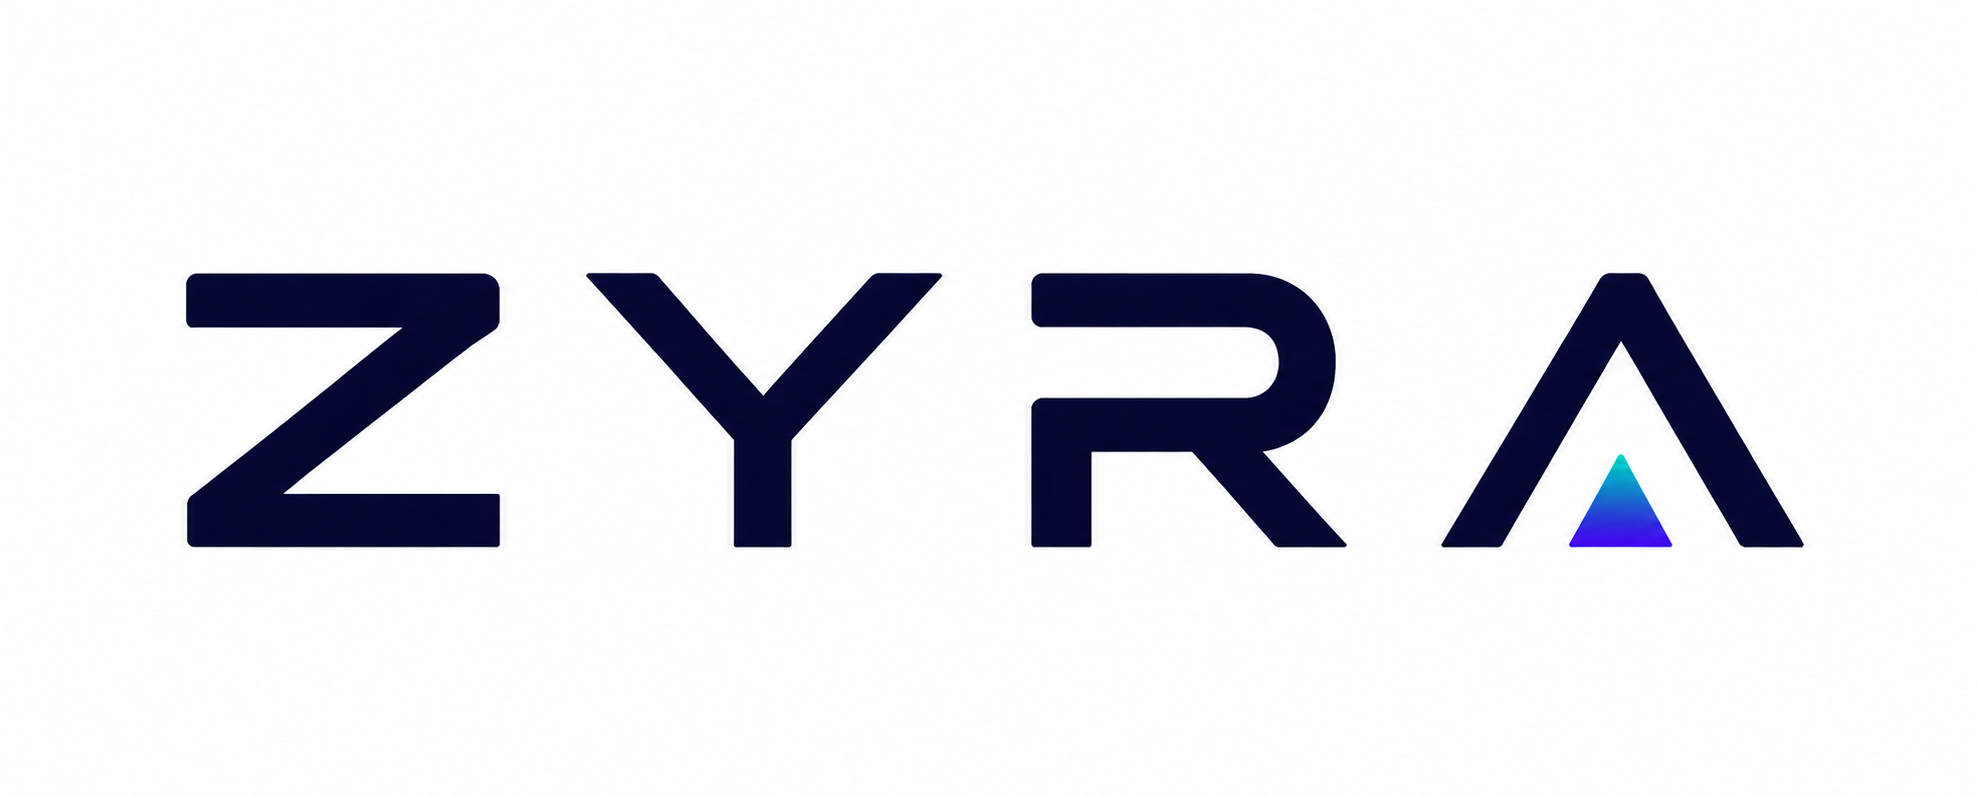
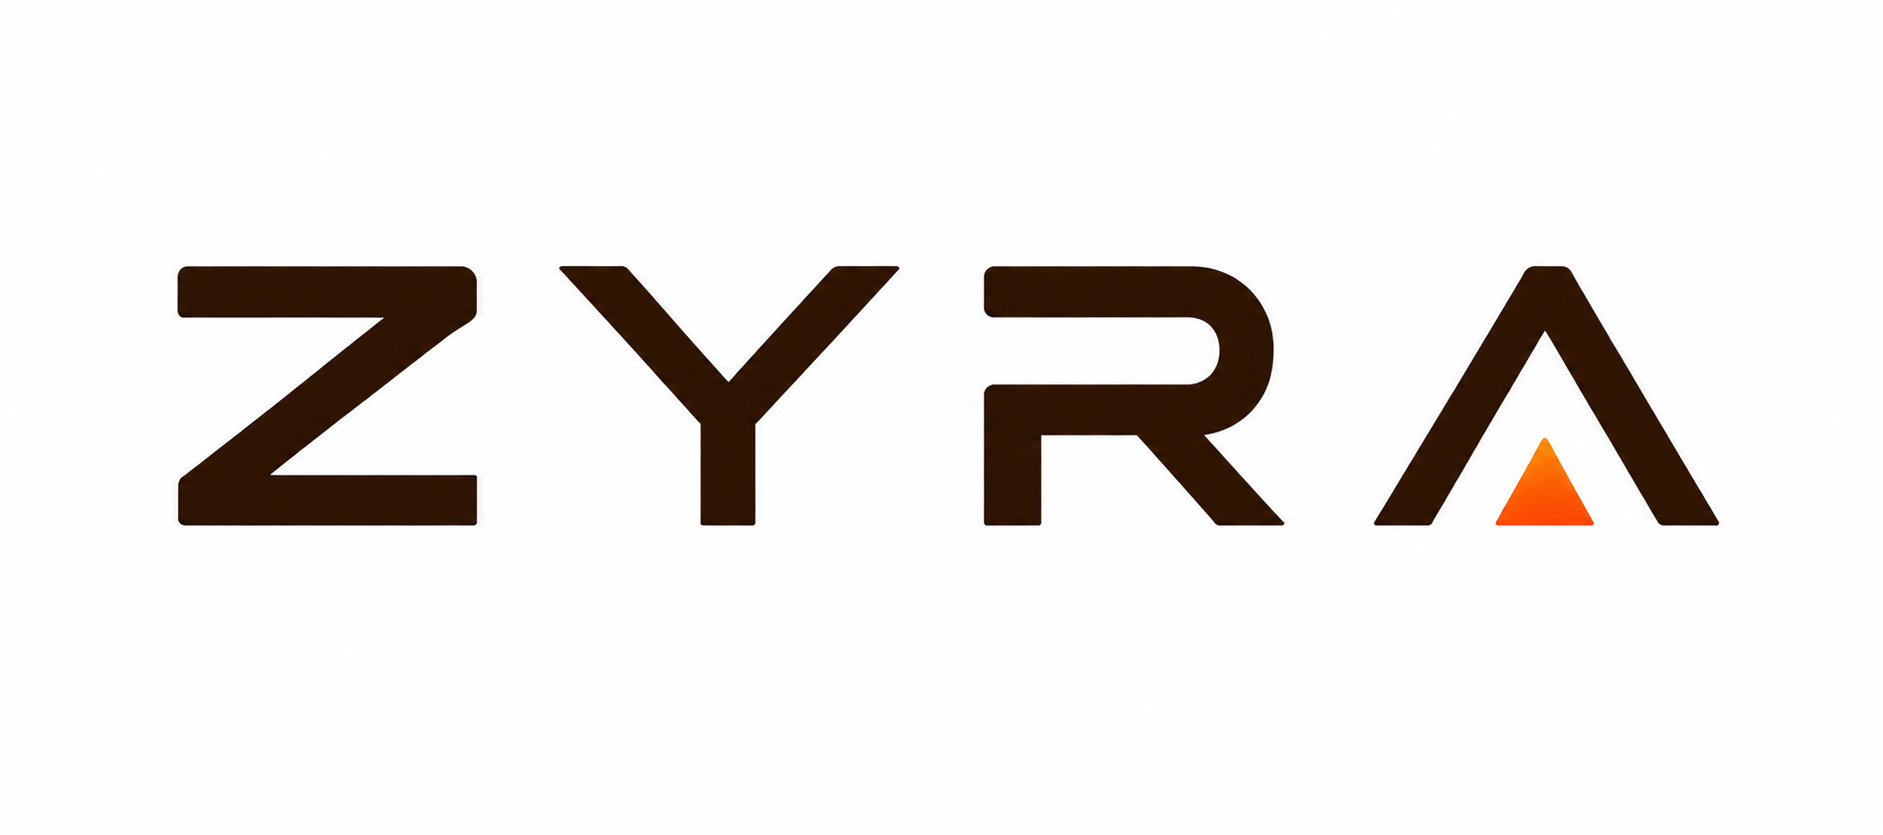
updates

Changed region(s): [[0.0924, 0.3019, 0.4928, 0.6943], [0.7084, 0.3019, 0.9241, 0.6943], [0.5236, 0.3019, 0.6776, 0.6943]]

diff --git a/src/components/Home/ServicesSection.tsx b/src/components/Home/ServicesSection.tsx
@@ -1,12 +1,49 @@
 import { motion, useReducedMotion } from 'framer-motion'
+import gearIcon from '../../assets/png/gear.png'
 
 const services = [
-  ['Product Strategy', 'Roadmaps, positioning, and launch plans shaped around the market.'],
-  ['UI/UX Design', 'Interfaces that are clean, accessible, and tuned for real workflows.'],
-  ['Web Development', 'Fast, modern web experiences built with the right stack for your goals.'],
-  ['Mobile Development', 'Native-feeling products designed for everyday use.'],
-  ['Branding & Identity', 'Visual systems that make your product easier to remember.'],
-  ['Deployment & DevOps', 'Release pipelines, analytics, and hosting foundations.'],
+  {
+    title: 'Product Strategy',
+    body: 'Roadmaps, prioritization, and go-to-market planning grounded in real user research.',
+    mark: 'St',
+    color: '#2563eb',
+    bg: '#e9efff',
+  },
+  {
+    title: 'UI/UX Design',
+    body: 'Interfaces that are beautiful, accessible, and built around real user journeys.',
+    mark: 'Ux',
+    color: '#e83e86',
+    bg: '#ffe8f2',
+  },
+  {
+    title: 'Web Development',
+    body: "Fast, modern web applications built with the right stack for your product's scale.",
+    mark: '</>',
+    color: '#16a866',
+    bg: '#e5faee',
+  },
+  {
+    title: 'Mobile Development',
+    body: 'Native and cross-platform mobile apps designed for real-world performance.',
+    mark: '◇',
+    color: '#8b5cf6',
+    bg: '#f0e7ff',
+  },
+  {
+    title: 'Branding & Identity',
+    body: 'Visual systems that express your values and make your product instantly recognizable.',
+    mark: 'Br',
+    color: '#ff7b00',
+    bg: '#fff0e5',
+  },
+  {
+    title: 'Deployment & DevOps',
+    body: 'Reliable infrastructure, CI/CD pipelines, and monitoring so your product stays live.',
+    icon: gearIcon,
+    color: '#ffffff',
+    bg: '#11110f',
+  },
 ]
 
 export function ServicesSection() {
@@ -31,11 +68,11 @@ export function ServicesSection() {
         </p>
       </div>
 
-      <div className="grid gap-4 sm:grid-cols-2 lg:grid-cols-3">
-        {services.map(([title, body], index) => (
+      <div className="grid gap-3 sm:grid-cols-2 lg:grid-cols-3">
+        {services.map((service, index) => (
           <motion.article
-            key={title}
-            className="group rounded-[8px] bg-white p-6 shadow-[0_18px_45px_rgba(17,17,15,0.04)]"
+            key={service.title}
+            className="group min-h-[216px] rounded-[22px] bg-white p-8 shadow-[0_18px_45px_rgba(17,17,15,0.04)]"
             initial={shouldReduceMotion ? false : { opacity: 0, y: 52, scale: 0.96 }}
             whileInView={{ opacity: 1, y: 0, scale: 1 }}
             whileHover={
@@ -50,22 +87,28 @@ export function ServicesSection() {
             }
             viewport={{ once: true, amount: 0.25, margin: '0px 0px -8% 0px' }}
             transition={{
-              duration: shouldReduceMotion ? 0 : 1,
-              delay: shouldReduceMotion ? 0 : index * 0.15,
+              duration: shouldReduceMotion ? 0 : 0.7,
+              delay: shouldReduceMotion ? 0 : index * 0.08,
               ease: [0.16, 1, 0.3, 1],
             }}
           >
-            <span
-              className={`mb-8 grid h-8 w-8 place-items-center rounded-[7px] bg-cream text-xs font-semibold text-orange ${
-                shouldReduceMotion
-                  ? ''
-                  : 'transition-[transform,background-color,color] duration-300 ease-out group-hover:scale-110 group-hover:bg-orange group-hover:text-white'
-              }`}
-            >
-              {String(index + 1).padStart(2, '0')}
-            </span>
-            <h3 className="text-base font-semibold">{title}</h3>
-            <p className="mt-3 text-xs leading-6 text-muted">{body}</p>
+            <div className="mb-5 flex items-start justify-between">
+              <span
+                className={`grid size-11 place-items-center rounded-[12px] text-[16px] font-semibold ${
+                  shouldReduceMotion ? '' : 'transition-transform duration-300 ease-out group-hover:scale-110'
+                }`}
+                style={{ backgroundColor: service.bg, color: service.color }}
+              >
+                {'icon' in service ? (
+                  <img src={service.icon} alt="" className="size-5 brightness-0 invert" aria-hidden="true" />
+                ) : (
+                  service.mark
+                )}
+              </span>
+              <span className="font-geist-mono text-[11px] text-[#aaa59e]">{String(index + 1).padStart(2, '0')}</span>
+            </div>
+            <h3 className="text-[22px] font-semibold leading-tight tracking-[-0.03em] text-black">{service.title}</h3>
+            <p className="mt-5 text-[15px] leading-[1.6] text-[#77736e]">{service.body}</p>
           </motion.article>
         ))}
       </div>

diff --git a/src/assets/vid/tech_innovation_video.html b/src/assets/vid/tech_innovation_video.html
@@ -207,7 +207,7 @@
     z-index: 10;
     border-radius: 12px;
   }
-  #play-btn svg { filter: drop-shadow(0 0 20px rgba(0,255,178,0.7)); }
+  #play-btn svg { filter: drop-shadow(0 0 20px rgba(255,255,255,0.45)); }
   #play-btn:hover svg { transform: scale(1.1); transition: transform 0.2s; }
 
   /* Scanline overlay */
@@ -317,9 +317,9 @@
 
   <div id="play-btn">
     <svg width="72" height="72" viewBox="0 0 72 72" fill="none">
-      <circle cx="36" cy="36" r="35" stroke="rgba(0,255,178,0.4)" stroke-width="1"/>
-      <circle cx="36" cy="36" r="27" stroke="rgba(0,255,178,0.2)" stroke-width="1"/>
-      <polygon points="29,22 53,36 29,50" fill="#00FFB2"/>
+      <circle cx="36" cy="36" r="35" stroke="rgba(255,255,255,0.45)" stroke-width="1"/>
+      <circle cx="36" cy="36" r="27" stroke="rgba(255,255,255,0.25)" stroke-width="1"/>
+      <polygon points="29,22 53,36 29,50" fill="#FFFFFF"/>
     </svg>
   </div>
 </div>

diff --git a/src/index.css b/src/index.css
@@ -106,7 +106,15 @@ a {
     width: 68px;
     height: 68px;
     border-width: 1.5px;
+    border-color: white;
     background: white;
+    mix-blend-mode: difference;
+  }
+
+  .custom-cursor.is-interactive.is-solid {
+    border-color: #11110f;
+    background: #11110f;
+    mix-blend-mode: normal;
   }
 
   /* Hide dot when ring is filled — it would compound the blend and look noisy */

diff --git a/src/components/Home/Header.tsx b/src/components/Home/Header.tsx
@@ -106,7 +106,7 @@ export function Header() {
                 <a
                   key={item.label}
                   href={item.href}
-                  className="transition hover:text-orange"
+                  className="rounded-full px-4 py-3 text-[#1d1d1d] transition-colors hover:bg-black hover:text-white focus-visible:bg-black focus-visible:text-white focus-visible:outline-none"
                   onClick={() => trackEvent({ name: 'nav_link_click', params: { label: item.label, destination: item.href } })}
                 >
                   {item.label}
@@ -116,7 +116,7 @@ export function Header() {
 
             <a
               href="/contact"
-              className="hidden whitespace-nowrap rounded-full bg-[#111111] px-5 py-3 text-[15px] font-medium text-white transition hover:bg-orange hover:text-black sm:inline-flex"
+              className="hidden whitespace-nowrap rounded-full bg-[#111111] px-5 py-3 text-[15px] font-medium text-white focus-visible:outline-none sm:inline-flex"
               onClick={() => trackEvent({ name: 'cta_click', params: { cta_name: 'header_book_a_call', destination: '/contact' } })}
             >
               Book a Call ↗
@@ -175,7 +175,8 @@ export function Header() {
 
                 <a
                   href="/contact"
-                  className="mt-2 flex min-h-12 items-center justify-center rounded-[16px] bg-[#111111] px-5 text-[15px] font-medium text-white"
+                  data-cursor-mode="solid"
+                  className="mt-2 flex min-h-12 items-center justify-center rounded-[16px] bg-[#111111] px-5 text-[15px] font-medium text-white transition-colors hover:bg-[#FF7B00] hover:text-white focus-visible:bg-[#FF7B00] focus-visible:text-white focus-visible:outline-none active:text-white visited:text-white"
                   onClick={() => {
                     setMobileMenu(false)
                     trackEvent({ name: 'cta_click', params: { cta_name: 'mobile_book_a_call', destination: '/contact' } })

diff --git a/src/components/CustomCursor.tsx b/src/components/CustomCursor.tsx
@@ -32,8 +32,10 @@ export function CustomCursor() {
       const target = surface instanceof Element ? surface : null
       const interactive = target?.closest(interactiveSelector) as HTMLElement | null
       const isIframe = target?.tagName === 'IFRAME'
+      const cursorMode = interactive?.dataset.cursorMode
 
       ring.classList.toggle('is-interactive', Boolean(interactive || isIframe))
+      ring.classList.toggle('is-solid', cursorMode === 'solid')
 
       if (targetRef.current && targetRef.current !== interactive) {
         targetRef.current.style.transform = ''
@@ -99,6 +101,7 @@ export function CustomCursor() {
       ring.style.opacity = '0'
       dot.style.opacity = '0'
       ring.classList.remove('is-interactive')
+      ring.classList.remove('is-solid')
 
       if (targetRef.current) {
         targetRef.current.style.transform = ''